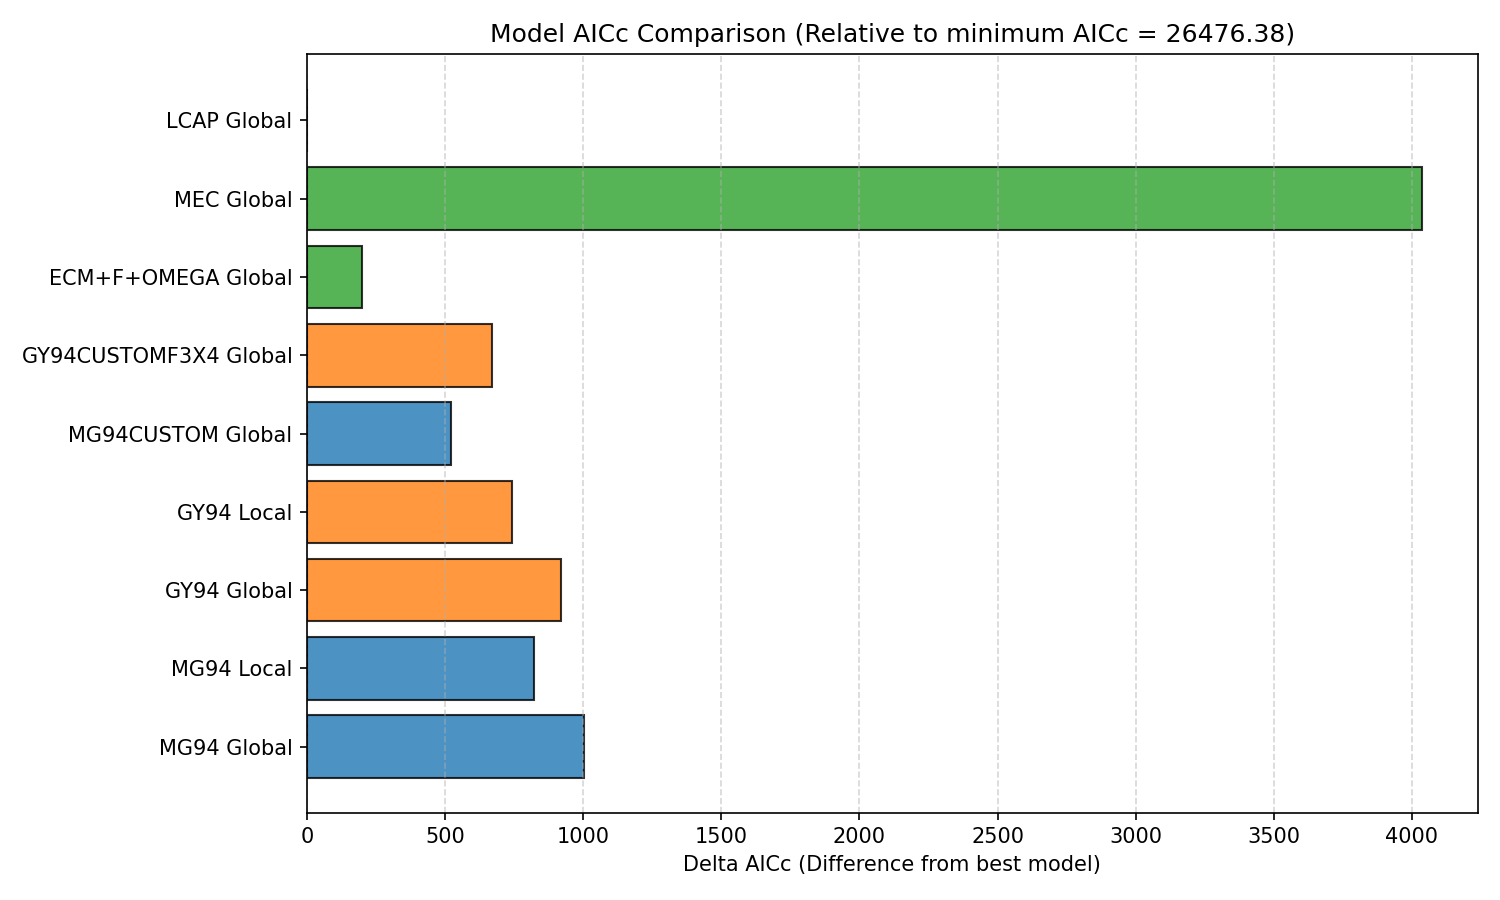
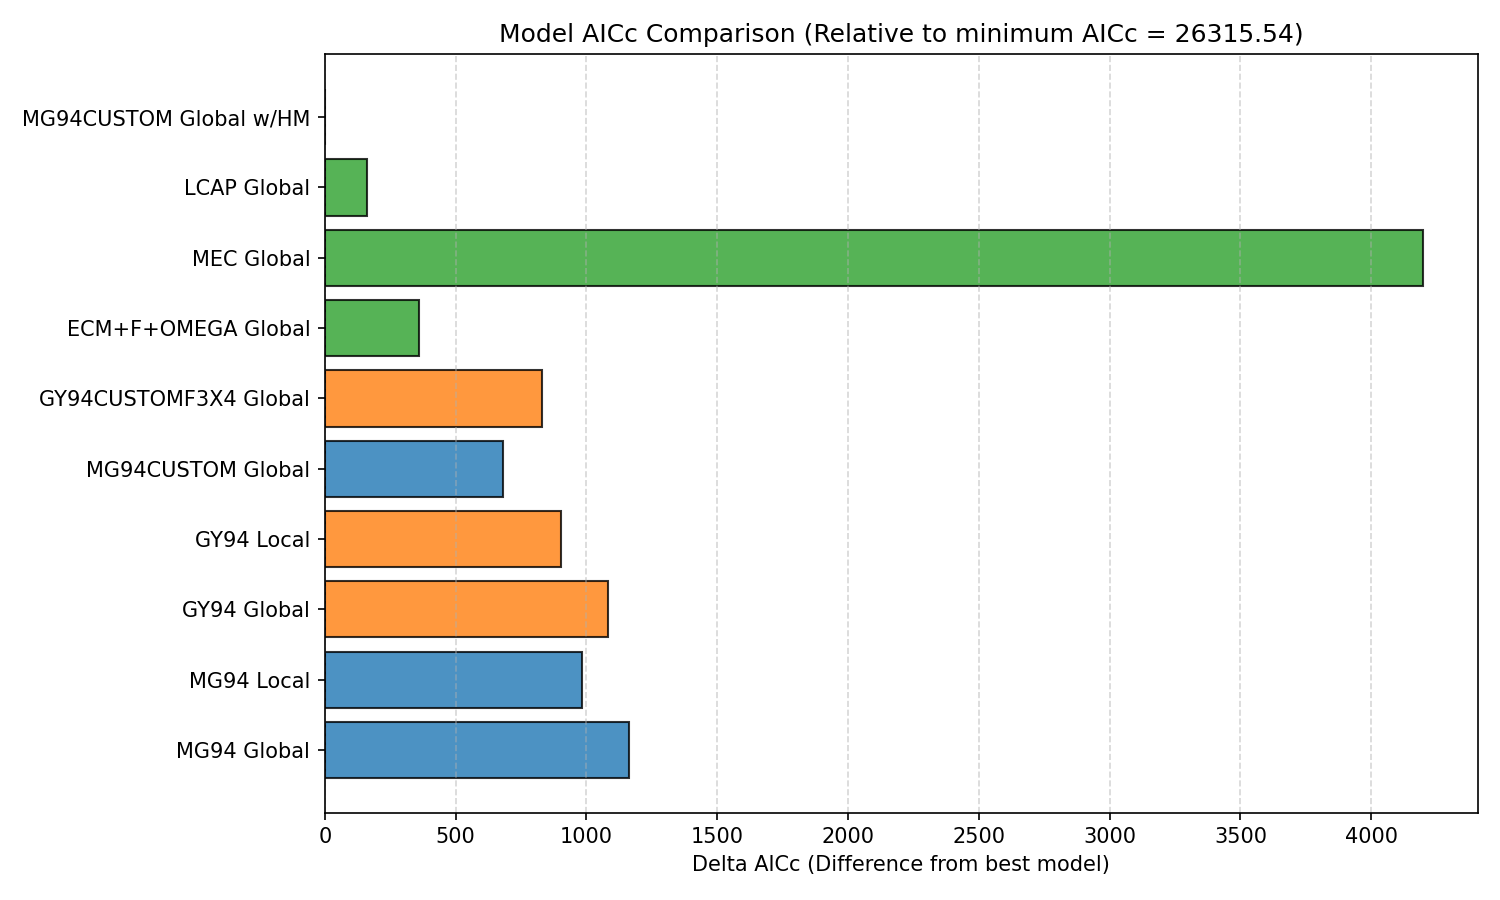
Include custom GTR HMM rate variation model in Yokoyama analysis report
- Update summary table, executive summary, and discussions with GTR-HMM results.
- Regenerate comparison plots containing the GTR-HMM model.

diff --git a/help/yokoyama_analysis.md b/help/yokoyama_analysis.md
@@ -1,6 +1,6 @@
 # Codon Substitution Analysis: Yokoyama Rhodopsin Dataset
 
-This report provides an interpretive comparison of nine different codon substitution model configurations fitted to the Yokoyama vertebrate rhodopsin dataset (`tests/data/yokoyama.rh1.cds.mod.1-990.nex`). 
+This report provides an interpretive comparison of ten different codon substitution model configurations fitted to the Yokoyama vertebrate rhodopsin dataset (`tests/data/yokoyama.rh1.cds.mod.1-990.nex`). 
 
 The dataset consists of 36 sequences and 71 branches (990 nucleotides/330 codons in length).
 
@@ -8,10 +8,11 @@ The dataset consists of 36 sequences and 71 branches (990 nucleotides/330 codons
 
 ## 1. Executive Summary
 
-- **Best Fit Model**: **LCAP Global** (Linear Combination of Amino Acid Properties) provides the best overall fit with an AIC-c of **26476.38**, followed closely by **ECM+F+OMEGA Global** (Empirical Codon Model) with **26676.22**.
-- **Mechanistic baseline**: **GY94 Global** (AIC-c = 27397.54) outperforms **MG94 Global** (AIC-c = 27477.45) by ~80 AIC-c units, showing the importance of codon-level frequency scaling for rhodopsin.
-- **Custom bias matrix**: Specifying custom GTR-like nucleotide biases (e.g., the HKY85-like `010010` bias in `MG94CUSTOM`) improves the fit dramatically (delta AIC-c = -481.36 compared to baseline MG94).
-- **Rate Heterogeneity**: Both `MG94 Local` and `GY94 Local` models show a massive improvement in likelihood over their Global counterparts, demonstrating that selection rates (dN/dS) vary significantly across different lineages in the vertebrate rhodopsin phylogeny.
+- **Best Fit Model**: **MG94CUSTOM Global w/HM** (GTR HMM rate variation) provides the best overall fit with an AIC-c of **26315.54**, outperforming the biophysical properties model (**LCAP Global**, AIC-c = 26476.38) and the empirical codon model (**ECM+F+OMEGA Global**, AIC-c = 26676.22).
+- **HMM Rate Variation**: Modelling site-to-site rate variation via a Hidden Markov Model with 4 Gamma-distributed rate categories yields a massive improvement (delta AIC-c = -160.84 compared to the best model without site-to-site variation, LCAP).
+- **Autocorrelation**: The estimated HMM transition parameter lambda (0.284) indicates a strong positive correlation in evolutionary rates between adjacent codon sites, reflecting structural domains of rhodopsin.
+- **Custom bias matrix**: Specifying custom GTR-like nucleotide biases (e.g., HKY85-like `010010` bias in `MG94CUSTOM`) improves the fit dramatically compared to baseline MG94.
+- **Rate Heterogeneity across Branches**: Both `MG94 Local` and `GY94 Local` models show a massive improvement in likelihood over their Global counterparts, demonstrating that selection rates (dN/dS) vary significantly across different lineages in the vertebrate rhodopsin phylogeny.
 - **Selection Pressure**: All global selection estimates (ranging from 0.08 to 0.29) indicate that the rhodopsin gene is overall under strong purifying (selective) constraint.
 
 ---
@@ -22,11 +23,12 @@ Below is the summary table of the log-likelihood (logL), parameter count, inform
 
 | Model Configuration | Log Likelihood | Parameters | AIC | AIC-c | BIC | Total Tree Length | dN/dS Estimate |
 |:---|:---:|:---:|:---:|:---:|:---:|:---:|:---:|
-| **LCAP Global** | -13160.71 | 77 | 26475.42 | **26476.38** | 27048.04 | 3.877 | *N/A (Biophysical)* |
+| **MG94CUSTOM Global w/HM**| -13083.32 | 74 | 26314.65 | **26315.54** | 26864.96 | 6.192 | 0.087 |
+| **LCAP Global** | -13160.71 | 77 | 26475.42 | **26476.38** | 27048.04 | 3.878 | *N/A (Biophysical)* |
 | **ECM+F+OMEGA Global** | -13266.70 | 71 | 26675.40 | **26676.22** | 27203.40 | 4.378 | 0.292 |
 | **MG94CUSTOM Global** | -13425.62 | 72 | 26995.25 | **26996.09** | 27530.69 | 3.845 | 0.110 |
 | **GY94CUSTOMF3X4 Global**| -13500.36 | 72 | 27144.71 | **27145.55** | 27680.15 | 4.050 | 0.079 |
-| **GY94 Local** | -13466.36 | 141 | 27214.72 | **27217.95** | 28263.29 | 4.062 | *Variable per branch*|
+| **GY94 Local** | -13466.35 | 141 | 27214.69 | **27217.92** | 28263.26 | 4.058 | *Variable per branch*|
 | **MG94 Local** | -13507.52 | 140 | 27295.05 | **27298.23** | 28336.18 | 3.947 | *Variable per branch*|
 | **GY94 Global** | -13626.35 | 72 | 27396.69 | **27397.54** | 27932.13 | 3.902 | 0.132 |
 | **MG94 Global** | -13667.31 | 71 | 27476.63 | **27477.45** | 28004.63 | 3.794 | 0.125 |
@@ -55,26 +57,25 @@ Comparison of the total estimated tree lengths (expected substitutions per codon
 
 ## 4. Key Interpretations & Discussions
 
-### 4.1 Why LCAP and ECM Fit Best
-1. **LCAP (Linear Combination of Amino Acid Properties)**:
-   This model achieves the highest likelihood and lowest AIC-c because it does not assume all non-synonymous changes are penalised equally. Instead, it scales rates according to differences in five biophysical properties (Chemical Composition, Polarity, Volume, Isoelectric Point, and Hydropathy). Since rhodopsin is a membrane-bound G-protein coupled receptor (GPCR) with highly conserved hydrophobic transmembrane helices, substitutions that alter polarity or volume are heavily selected against, while chemically similar substitutions are tolerated. LCAP captures these biophysical constraints directly by estimating property-specific weights.
-2. **ECM (Empirical Codon Model)**:
-   The empirical transition matrix accounts for realistic substitution patterns derived from a large database of actual alignments. It captures complex multi-nucleotide changes (e.g., double and triple mutations occurring in the same codon), which mechanistic models (MG94/GY94) assume are impossible (rate = 0).
+### 4.1 Why GTR-HMM and LCAP Fit Best
+1. **MG94CUSTOM Global w/HM (HMM Rate Variation)**:
+   This model achieves the highest likelihood and lowest AIC-c because it models site-to-site rate variation and rate autocorrelation. Codon sites inside transmembrane alpha-helices or binding pockets are highly constrained, whereas outer loop residues are variable. By using a Hidden Markov Model, rates at adjacent sites are correlated. The estimated autocorrelation transition parameter lambda is 0.284 and the Gamma shape parameter alpha is 0.882, indicating strong spatial rate autocorrelation along the rhodopsin sequence.
+2. **LCAP (Linear Combination of Amino Acid Properties)**:
+   This model also fits very well because it scales rates according to biophysical differences between amino acids (hydrophobicity, volume, polarity, charge). Because rhodopsin is a GPCR, transmembrane hydrophobic regions do not tolerate mutations that alter polarity.
+3. **ECM (Empirical Codon Model)**:
+   The empirical transition matrix accounts for realistic substitution patterns and multi-nucleotide changes (double and triple mutations), which mechanistic models assume are impossible.
 
 ### 4.2 Global vs. Local Models
-Fitting branch-specific selection parameters (`Local` models) improves the log-likelihood by **159.8 units** for MG94 and **160.0 units** for GY94. Even though local estimation adds 69 new parameters to the model, the AIC-c decreases significantly:
-- MG94 Global (27477.45) -> MG94 Local (27298.23)
-- GY94 Global (27397.54) -> GY94 Local (27217.95)
-
-This nested LRT comparison strongly rejects the null hypothesis of a uniform global selection pressure across the tree (p < 0.0001), indicating that different lineages of vertebrate rhodopsin have evolved under varying levels of selective constraint (e.g., changes in selective pressures between terrestrial and deep-sea fish lineages).
+Fitting branch-specific selection parameters (`Local` models) improves the log-likelihood by **160 units** over `Global` models. This nested LRT comparison strongly rejects the null hypothesis of a uniform global selection pressure across the tree (p < 0.0001), indicating that different lineages of vertebrate rhodopsin have evolved under varying levels of selective constraint.
 
 ### 4.3 dN/dS Estimates Divergence
 The dN/dS values estimated under global models differ:
 - **GY94 Global** estimates omega = 0.132, whereas **MG94 Global** estimates R = 0.125.
-- **ECM+F+OMEGA** estimates a higher omega of 0.292. This occurs because the baseline empirical matrix already accounts for amino acid similarity; hence, the additional selection parameter omega represents selection above and beyond the baseline empirical constraints, rather than a raw ratio of synonymous vs. non-synonymous rates.
+- **MG94CUSTOM w/HM** estimates a lower selection ratio of 0.087, showing that accounting for site-to-site rate variation prevents overestimation of selection by separating site-specific constraints.
+- **ECM+F+OMEGA** estimates a higher omega of 0.292 because the baseline empirical matrix already accounts for amino acid similarity.
 
 ### 4.4 Tree Length Variations
 The total tree length (sum of branch lengths) represents the total expected substitutions per codon:
-- Empirical models like **ECM+F+OMEGA** estimate the longest tree (4.38), because they account for double/triple substitutions.
-- **MEC Global** estimates a much shorter tree (2.94) because it restricts substitution patterns to WAG empirical rates.
+- **MG94CUSTOM w/HM** estimates the longest tree (6.19), because accounting for rate variation increases tree length estimates due to high-rate variable sites.
 - Standard mechanistic models are highly consistent, estimating a tree length of ~3.8 to 4.0 expected substitutions per site.
+- **MEC Global** estimates a much shorter tree (2.94) because it restricts substitution patterns to WAG empirical rates.